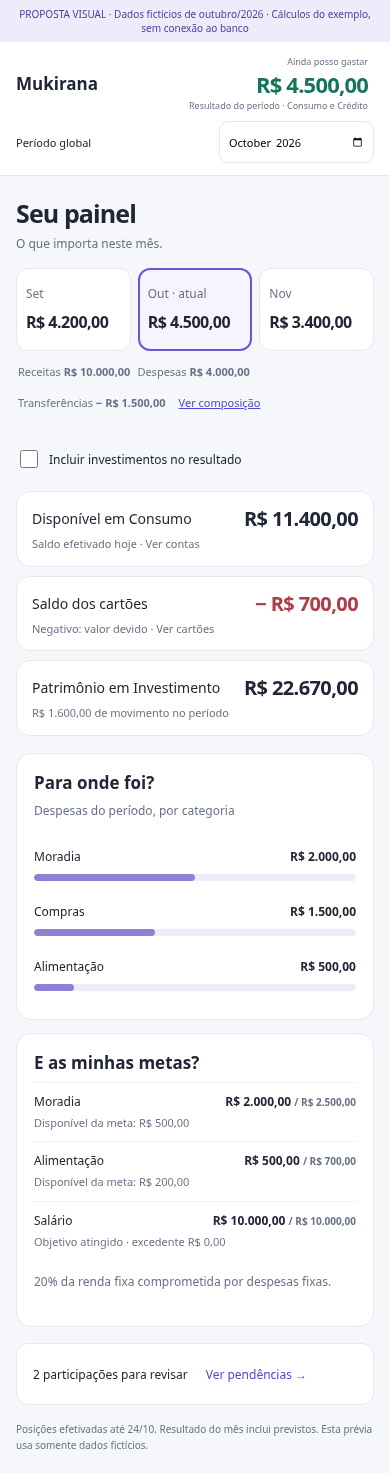
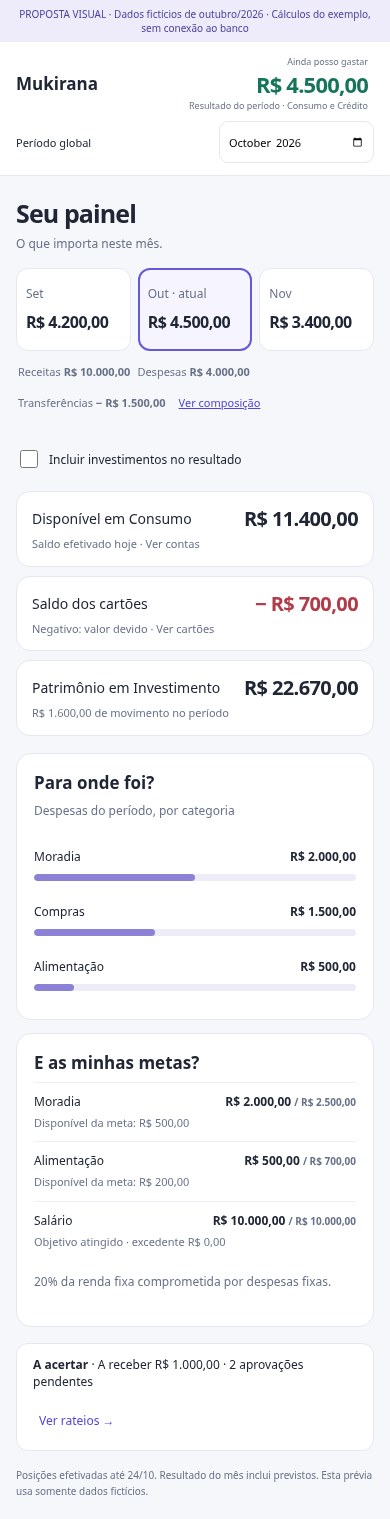
Propor rateios e acertos integrados ao Dashboard com resultado financeiro unico

diff --git a/docs/prototipos/painel.html b/docs/prototipos/painel.html
@@ -55,7 +55,7 @@ for(const [month,income,rent,food,transport,card,contribution,returns,payment] o
 const legs=entries.flatMap(e=>e.type==='transfer'?[{...e,key:e.id+'out',entryId:e.id,signedCents:String(-e.amount)},{...e,key:e.id+'in',entryId:e.id,account:e.destination,signedCents:String(e.amount)}]:[{...e,key:e.id,entryId:e.id,signedCents:String(e.type==='expense'?-e.amount:e.amount)}]);
 let selected='2026-10',include=false,lastFocus=null;const $=id=>document.getElementById(id),all=s=>[...document.querySelectorAll(s)],esc=s=>String(s??'').replace(/[&<>"']/g,c=>({'&':'&amp;','<':'&lt;','>':'&gt;','"':'&quot;',"'":'&#39;'}[c]));const ua=navigator.userAgent,tablet=/iPad|Tablet|Android(?!.*Mobile)/i.test(ua),phone=!tablet&&(/iPhone|Android.+Mobile/i.test(ua)||Math.min(innerWidth,innerHeight)<600);document.body.dataset.interface=phone?'phone':'desktop';$('mount').append($(phone?'phone':'desktop').content.cloneNode(true));
 function relevant(month){return legs.filter(e=>e.date.startsWith(month)&&(include||accounts[e.account].type!=='Investimento'));}function summary(month){return C.summarize(relevant(month));}function current(type){return legs.filter(e=>accounts[e.account].type===type&&e.date<=today).reduce((n,e)=>C.add(n,e.signedCents),'0');}function movement(){return legs.filter(e=>accounts[e.account].type==='Investimento'&&e.date.startsWith(selected)).reduce((n,e)=>C.add(n,e.signedCents),'0');}function m(value){return C.money(String(value));}
-function draw(){const s=summary(selected);$('result').textContent=m(s.resultCents);$('result').className=s.resultCents.startsWith('-')?'negative':'';$('scope').textContent='Resultado do período · '+(include?'Todas as contas':'Consumo e Crédito');all('.months').forEach(host=>host.innerHTML=['2026-09','2026-10','2026-11'].map((month,i)=>{const s=summary(month),name=['Setembro','Outubro','Novembro'][i];return `<button class="month" data-month="${month}" aria-pressed="${month===selected}"><span class="month-label">${phone?name.slice(0,3):name+' 2026'}${i===1?' · atual':''}</span><strong class="${s.resultCents.startsWith('-')?'negative':''}">${m(s.resultCents)}</strong>${phone?'':`<span>Entrou ${m(s.incomeCents)} · Saiu ${m(s.expenseCents)}</span>`}</button>`;}).join(''));
+function draw(){const s=summary(selected);const sharedExpense=entries.find(e=>e.id==='2026-10card'),receivable=String(Math.floor(sharedExpense.amount/3)*2);all('.pending>span').forEach(n=>n.innerHTML='<strong>A acertar</strong> · A receber '+m(receivable)+' · 2 aprovações pendentes');all('.pending>button').forEach(n=>n.textContent='Ver rateios →');$('result').textContent=m(s.resultCents);$('result').className=s.resultCents.startsWith('-')?'negative':'';$('scope').textContent='Resultado do período · '+(include?'Todas as contas':'Consumo e Crédito');all('.months').forEach(host=>host.innerHTML=['2026-09','2026-10','2026-11'].map((month,i)=>{const s=summary(month),name=['Setembro','Outubro','Novembro'][i];return `<button class="month" data-month="${month}" aria-pressed="${month===selected}"><span class="month-label">${phone?name.slice(0,3):name+' 2026'}${i===1?' · atual':''}</span><strong class="${s.resultCents.startsWith('-')?'negative':''}">${m(s.resultCents)}</strong>${phone?'':`<span>Entrou ${m(s.incomeCents)} · Saiu ${m(s.expenseCents)}</span>`}</button>`;}).join(''));
  all('.composition').forEach(host=>host.innerHTML=`<span>Receitas <strong>${m(s.incomeCents)}</strong></span><span>Despesas <strong>${m(s.expenseCents)}</strong></span><span>Transferências <strong>${m(s.transferCents)}</strong></span><button data-info="balance">Ver composição</button>`);
  all('.positions').forEach(host=>host.innerHTML=[['Disponível em Consumo',current('Consumo'),'Saldo efetivado hoje · Ver contas','cash'],['Saldo dos cartões',current('Cartão de Crédito'),'Negativo: valor devido · Ver cartões','credit'],['Patrimônio em Investimento',current('Investimento'),m(movement())+' de movimento no período','invest']].map(([label,value,caption,id])=>`<button class="position" data-info="${id}" style="text-align:left"><span>${label}</span><strong class="${String(value).startsWith('-')?'negative':''}">${m(value)}</strong><small>${caption}</small></button>`).join(''));
  const expenses=relevant(selected).filter(e=>e.type==='expense'),cats={};expenses.forEach(e=>cats[e.category]=(cats[e.category]||0)+e.amount);const sorted=Object.entries(cats).sort((a,b)=>b[1]-a[1]),shown=sorted.slice(0,3);if(sorted.length>3)shown.push(['Outras',sorted.slice(3).reduce((n,x)=>n+x[1],0)]);const total=expenses.reduce((n,e)=>n+e.amount,0);
@@ -64,6 +64,6 @@ function draw(){const s=summary(selected);$('result').textContent=m(s.resultCent
  const fi=relevant(selected).filter(e=>e.type==='income'&&e.classification==='fixed').reduce((n,e)=>n+e.amount,0),fe=relevant(selected).filter(e=>e.type==='expense'&&e.classification==='fixed').reduce((n,e)=>n+e.amount,0);all('.fixed').forEach(n=>n.textContent=fi?(fe/fi*100).toLocaleString('pt-BR',{maximumFractionDigits:1})+'% da renda fixa comprometida por despesas fixas.':'Sem renda fixa registrada.');
 }
 function dialog(title,content){lastFocus=document.activeElement;$('dialog-title').textContent=title;$('dialog-content').innerHTML=content;$('dialog-wrap').hidden=false;$('dialog-close').focus();}function close(){$('dialog-wrap').hidden=true;lastFocus?.focus();}
-function info(kind){const s=summary(selected),content=kind==='balance'?`<p>Receitas − despesas + transferências recebidas − transferências enviadas.</p>${[['Receitas',s.incomeCents],['Despesas',C.negate(s.expenseCents)],['Entradas de transferência',s.transferInCents],['Saídas de transferência',C.negate(s.transferOutCents)],['Resultado',s.resultCents]].map(([n,v])=>`<p class="row"><span>${n}</span><strong>${m(v)}</strong></p>`).join('')}<p>O pagamento da fatura não vira nova despesa. O aporte reduz o operacional quando Investimento está fora do recorte.</p>`:kind==='cash'?'<p>Acumulado de movimentos efetivados nas contas de Consumo até hoje. É diferente do resultado restrito ao mês.</p>':kind==='credit'?'<p>Compras reduzem o saldo de Crédito. Pagamentos o aumentam e reduzem Consumo, sem criar nova despesa. O limite do cartão não é dinheiro disponível.</p>':kind==='invest'?'<p>Patrimônio: saldo acumulado efetivado das contas de Investimento. Movimento do período: aportes − resgates + rendimentos e demais registros. Uma transferência entre investimentos se anula.</p>':'<p>Na implementação, abre a lista de aprovações autorizadas. Esta prévia não registra decisões.</p>';dialog(kind==='balance'?'Composição do resultado':kind==='invest'?'Investimentos':kind==='credit'?'Crédito':kind==='cash'?'Disponível hoje':'Pendências',content);}
+function info(kind){const s=summary(selected),content=kind==='balance'?`<p>Receitas − despesas + transferências recebidas − transferências enviadas.</p>${[['Receitas',s.incomeCents],['Despesas',C.negate(s.expenseCents)],['Entradas de transferência',s.transferInCents],['Saídas de transferência',C.negate(s.transferOutCents)],['Resultado',s.resultCents]].map(([n,v])=>`<p class="row"><span>${n}</span><strong>${m(v)}</strong></p>`).join('')}<p>O pagamento da fatura não vira nova despesa. O aporte reduz o operacional quando Investimento está fora do recorte.</p>`:kind==='cash'?'<p>Acumulado de movimentos efetivados nas contas de Consumo até hoje. É diferente do resultado restrito ao mês.</p>':kind==='credit'?'<p>Compras reduzem o saldo de Crédito. Pagamentos o aumentam e reduzem Consumo, sem criar nova despesa. O limite do cartão não é dinheiro disponível.</p>':kind==='invest'?'<p>Patrimônio: saldo acumulado efetivado das contas de Investimento. Movimento do período: aportes − resgates + rendimentos e demais registros. Uma transferência entre investimentos se anula.</p>':'<p>Exemplo: a compra de R$ 1.500 no cartão, em outubro, foi dividida em três partes de R$ 500. Você pagou o total e tem R$ 1.000 a receber das outras duas pessoas.</p><p>Esses R$ 1.000 não aumentam Ainda posso gastar antes dos acertos. Ao confirmar recebimentos, entram como transferências, sem nova receita ou despesa. As aprovações deste exemplo são dos outros participantes.</p><p>A dívida é acumulada e não desaparece ao mudar o período. No sistema conectado, o detalhe mostrará as pessoas, as suas pendências e o extrato autorizado; esta prévia não registra decisões.</p>';dialog(kind==='balance'?'Composição do resultado':kind==='invest'?'Investimentos':kind==='credit'?'Crédito':kind==='cash'?'Disponível hoje':'Pendências',content);}
 $('month').addEventListener('change',e=>{if(!/^\d{4}-(0[1-9]|1[0-2])$/.test(e.target.value))return;selected=e.target.value;draw();});all('.include-invest').forEach(el=>el.addEventListener('change',()=>{include=el.checked;draw();}));document.addEventListener('click',e=>{const b=e.target.closest('button');if(!b)return;if(b.dataset.month){selected=b.dataset.month;$('month').value=selected;draw();}if(b.dataset.info)info(b.dataset.info);if(b.dataset.category)dialog(b.dataset.category,'<p>Na implementação, abre Lançamentos com o mesmo período e a categoria selecionada. Nenhum filtro sem registros será oferecido.</p>');});$('dialog-close').onclick=close;$('dialog-wrap').onclick=e=>{if(e.target===$('dialog-wrap'))close();};document.addEventListener('keydown',e=>{if($('dialog-wrap').hidden)return;if(e.key==='Escape')close();if(e.key==='Tab'){e.preventDefault();$('dialog-close').focus();}});draw();window.demoSummary=()=>summary(selected);
 </script></body></html>

diff --git a/docs/proposta-rateios.md b/docs/proposta-rateios.md
@@ -1,0 +1,203 @@
+# Proposta de implementação de Rateios nesta rodada
+
+Revisão em 25/10/2026 do documento v0.1 (RAT-01 a RAT-13, APR-01 a APR-05,
+ACE-01 a ACE-09, CAT-09 e regras de geração). Comparação com o código vigente,
+a avaliação v40 e a estrutura real do Supabase `wcczkultokrypdfimbsh`.
+Esta entrega é uma proposta; não aplica migrações nem altera os registros financeiros.
+
+## Decisão financeira confirmada
+
+O usuário confirmou nesta revisão: se paga R$ 300 divididos igualmente entre três
+pessoas, o resultado/Ainda posso gastar considera os **R$ 300 pagos**. Os **R$ 200
+a receber** ficam em **A acertar**, separados. A participação de R$ 100 permanece
+visível no detalhe, sem gerar outro lançamento na conta dos participantes.
+
+| Momento, considerando apenas esse exemplo | Despesa do pagador | Transferências recebidas | Resultado | A receber |
+| --- | ---: | ---: | ---: | ---: |
+| Após o pagamento original | R$ 300 | R$ 0 | −R$ 300 | R$ 200 |
+| Após um acerto de R$ 100 confirmado | R$ 300 | R$ 100 | −R$ 200 | R$ 100 |
+| Após os dois acertos confirmados | R$ 300 | R$ 200 | −R$ 100 | R$ 0 |
+
+Para o outro participante, a obrigação de R$ 100 não altera sua conta até pagar.
+Ao pagar, haverá uma transferência de saída, sem uma segunda despesa do original.
+A fórmula única continua Receitas − Despesas + transferências recebidas − enviadas.
+Sem alternância Minha participação/Fluxo de caixa. Direitos a receber não são
+tratados como dinheiro disponível, e dívidas não viram movimentações bancárias
+antes do registro de seu pagamento.
+
+Essa decisão substitui a aplicação de RAT-03/RAT-12 que anteciparia a participação
+individual **no resultado financeiro principal**. Categoria individual e informações
+de participação continuam necessárias para organizar/consultar rateios, sem somar
+provisões aos KPIs financeiros, às despesas efetivamente registradas ou ao patrimônio.
+
+## O que já existe e o que falta
+
+| Aspecto | Base atual | Complemento proposto |
+| --- | --- | --- |
+| Divisão | Igual, por valor ou percentual; autor incluído; centavos e total validados | Preservar ajustes proporcionais dos demais, conferir totais e positivos também em cada parcela |
+| Modalidades | Rateio combinado com único, parcelado e recorrente finito na avaliação | Concluir a experiência de conjunto e os testes de aprovações/alterações parciais |
+| Aprovação | Solicitações com versão, aprovação/recusa com motivo e exclusão aguardando decisão | Detalhe suficiente para decidir, repetição segura e estados de aprovação separados de pagamento |
+| Categoria própria | Categoria escolhida gravada na decisão | Persistir na participação e usar nas consultas pessoais; hoje nova solicitação pode apagar essa informação |
+| Consulta do destinatário | Pode receber a solicitação sem ter acesso ao lançamento pela origem | Mostrar sua participação com DTO autorizado, sem abrir a conta/fatura original |
+| Liquidação | Há tabela de acertos e resumo legado de compensações | Implementar o fluxo bilateral contínuo com pagamento, confirmação, recusa, parciais e limite concorrente |
+| Dashboard | Tem resumo legado; proposta nova ainda é demonstrativa | Acrescentar A acertar, sem alterar a fórmula financeira confirmada |
+
+Consulta somente de leitura encontrou **942 participações em 471 lançamentos**.
+Em todos esses lançamentos a soma fecha o valor original e há uma parte do autor.
+Existem **três acertos**: um efetivado com duas pontas registradas e dois aguardando
+o credor, sem entrada de recebimento. Há **258 referências de participações nesses
+acertos, todas resolvidas**. As novas tabelas de solicitações/decisões estão vazias:
+não há evidência de aprovação v3 para atribuir automaticamente aos registros antigos.
+
+## Experiência proposta
+
+**Criar/dividir:** continua dentro de Lançamentos, como característica opcional de
+receita/despesa. Transferências, saldo inicial e pagamento de fatura não recebem
+rateio. Ao ativar Dividir, selecionar pessoas autorizadas, começar pela divisão
+igual e permitir editar valores ou percentuais. Não exigir compartilhar uma conta
+para ratear; não criar compartilhamentos bancários por trás do formulário.
+
+A primeira lista aproveita os vínculos autorizados existentes. Quando precisar de
+outro vínculo, usar convite privado com aceite, sem diretório público nem busca que
+exponha cadastros. Não ampliar esta rodada para um cadastro completo de grupos.
+Aprovações e convites ficam na aplicação; envio externo não é requisito desta proposta.
+
+**Divisão inteligente:** manter a parte editada e redistribuir o restante
+proporcionalmente entre as demais, respeitando suas proporções anteriores; quando
+não houver proporções, dividir igualmente. Valores monetários em centavos são a
+referência final. Resíduo da divisão igual fica com o autor; em redistribuição,
+com o autor se sua parte não estiver fixada pela edição, ou com o primeiro dos
+restantes em ordem estável. Mostrar o ajuste e impedir partes zeradas ou soma
+incompatível. Valores/percentuais editados nunca podem criar sobras escondidas.
+
+**Revisar:** cada pessoa vê descrição, natureza, datas, total, sua parcela, responsável
+financeiro, participantes autorizados e alterações a aprovar. Escolhe sua própria
+categoria/subcategoria; recusa exige motivo. Não exigir categoria para aprovar uma
+exclusão ou um recebimento de acerto. Sem categoria, usar a classificação reservada
+Aguardando Categorização, distinta de Aguardando aprovação. Não disponibilizar essa
+classificação para seleção/edição manual e só exibi-la quando houver participação
+vinculada, conforme a regra já definida para categorias do sistema.
+
+**Conjuntos:** uma decisão e uma categoria por pessoa para o conjunto, com aplicação
+às suas ocorrências. O detalhe mostra datas e valores afetados, inclusive fora do
+período global, e explica o alcance. Uma alteração financeira em qualquer ocorrência
+substitui o token e exige nova aprovação dos envolvidos, inclusive quem já aprovou.
+Excluir uma ocorrência/alcance solicita aprovação; nada é removido antes da aprovação
+exigida. Recusa não apaga o original nem desfaz automaticamente movimentações reais.
+Recategorização privada não deve expor a categoria nem gerar aprovação dos demais.
+
+**Estados independentes:** aprovação pendente/aprovada/rejeitada, classificação
+pendente/escolhida e dívida em aberto/parcialmente liquidada/zerada. Aprovado não
+significa pago; rejeitado não significa lançamento cancelado.
+
+**Telas maiores:** edição no painel compacto de Lançamentos, com tabela de pessoas,
+valores e percentuais; revisão e extrato em painel lateral. **Smartphone:** formulário
+próprio em tela inteira, participantes em cartões e decisões/acertos em folha inferior.
+Retomar rascunho preserva a divisão; rotação não apaga campos. Nenhum novo modo de cálculo.
+
+## A acertar e liquidação
+
+No Dashboard, uma linha compacta: **A receber · A pagar · Aprovações pendentes**.
+Só aparece quando houver algo relevante. Ao abrir, mostrar saldo por pessoa e o
+extrato dos rateios/acertos que o compõem. Compensar apenas dentro do mesmo par:
+não usar um crédito com uma pessoa para apagar uma dívida com outra.
+
+Despesas pagas por A geram obrigações dos demais para A. Receitas recebidas por A
+que pertencem aos demais geram obrigação de A para eles: a direção se inverte.
+A soma pode inverter quem deve a quem. Não gerar juros, empréstimos ou produtos
+financeiros que não constam dos requisitos.
+
+A sugestão para pagar é a dívida líquida acumulada até o mês corrente. A antecipação
+pode alcançar obrigações futuras **já registradas**, até o saldo total disponível.
+Recorrências virtuais ainda não geradas não autorizam pagamentos. O filtro mensal
+do Dashboard não redefine o saldo bilateral: o bloco informa que é acumulado, e o
+detalhe distingue vencido/atual, futuro registrado e em confirmação.
+
+```mermaid
+flowchart LR
+  A[Devedor registra pagamento] --> B[Saída na própria conta e reserva na dívida]
+  B --> C[Credor revisa]
+  C -->|Aprova e escolhe conta| D[Entrada registrada e acerto efetivado]
+  C -->|Recusa com motivo| E[Dívida restaurada; saída permanece para correção]
+```
+
+O devedor informa valor e a própria conta; não escolhe nem descobre a conta do credor.
+A saída e a reserva provisória são atômicas. O credor escolhe sua conta e confirma;
+a entrada nasce nessa confirmação, sem novo lançamento de receita/despesa comum.
+Repetir um pedido após perda de resposta não duplica saída, entrada ou reserva.
+Pagamentos simultâneos não podem ultrapassar a dívida, considerando os já em confirmação.
+
+Preservar compatibilidade com pagamento já existente e com a opção legada vinculada
+a pagamento de fatura. Nesses casos, reconhecer o registro financeiro existente:
+não criar outra saída ou outra entrada. O benefício de uma fatura efetivamente paga
+não é estornado por recusa do acerto; a dívida bilateral é que volta a ficar aberta.
+Vínculo a movimento existente exige propriedade, valor compatível e ausência de
+outro vínculo de liquidação. Movimentos ficam associados a uma única operação.
+
+Não apagar pagamentos históricos para editar um rateio. Conservar as proteções
+atuais de liquidações e implementar uma correção explícita quando houver diferença
+a regularizar, com nova aprovação, em vez de remover e recriar registros vinculados.
+
+## Reaproveitamento técnico e mudanças mínimas
+
+- **rateios:** manter entidade/IDs e valores; acrescentar categoria individual e
+  controle de versão necessários. A categoria precisa sobreviver à troca de token.
+  Manter como estado interno reservado a classificação ausente, sem criar finanças.
+- **solicitacoes/decisoes:** aproveitar a base e generalizar por domínio/ação:
+  alteração/exclusão de rateio, acerto e convite. Verificar sessão, participação,
+  token atual e versão. Cada domínio aplica seus efeitos; decidir um convite não
+  pode executar uma exclusão financeira. Não usar a decisão como único cadastro
+  permanente de categoria.
+- **acertos_rateios:** conservar os três acertos e seus vínculos; completar versão,
+  motivo de recusa, operação idempotente e estado Rejeitado. O esquema atual aceita
+  somente Aguardando_Credor/Efetivado/Cancelado, portanto precisa de migração aditiva, harmonizando também as restrições de estado.
+- **Lançamentos/Contas:** reconhecer as pontas de acerto como transferências
+  especiais na projeção financeira, inclusive nos registros legados; não criar
+  destinos fictícios nem copiar movimentos entre contas privadas. Cada pessoa só
+  acessa a sua ponta e os detalhes do acerto a que tem direito.
+- **Consultas:** saldo derivado de obrigações e acertos, sem total manual paralelo.
+  Não descontar ao mesmo tempo o pagamento e uma marca de rateio Acertado.
+
+Duas correções precisam vir antes da interface:
+
+1. Hoje o gravador novo substitui participações com DELETE/INSERT, mas os acertos
+   guardam IDs de participações. Preservar identidades e proteger/normalizar esses
+   vínculos antes de permitir alterações no histórico; cancelar logicamente o que
+   precisar sair da versão vigente sem perder referências financeiras.
+2. Na produção, a responsabilidade é inferida do dono da conta/titular do cartão;
+   no gravador novo, `id_usuario_credor` é preenchido com quem está digitando.
+   Separar autoria do registro e responsável financeiro, especialmente nos
+   adicionais. O titular e o adicional não podem virar credores por uma suposição
+   baseada apenas no login. A direção da obrigação também depende de ser receita
+   ou despesa, não apenas do nome de uma coluna legada.
+
+Privacidade: DTO de participação permite consultar o rateio sem liberar a origem.
+Categorias privadas só são retornadas ao seu dono. Não dar acesso a detalhes de
+rateio por simples presença no mesmo grupo, projeto ou conta; preservar as permissões
+financeiras do titular de cartão já homologadas, com os detalhes estritamente
+necessários. Elegibilidade para convidar não equivale a direito de consultar finanças.
+
+## Migração, sequência e aceite
+
+1. Conciliar a base, conservar os 942 IDs e os três acertos, e introduzir os metadados
+   sem mudar saldos. Registros antigos ficam identificados como legado sem evidência
+   de aprovação; não marcar todos como aprovados nem disparar convites retroativos.
+2. Completar rateio no lançamento, detalhes para o destinatário, categoria individual,
+   estados e nova aprovação por conjunto. Manter menus de avaliação e as duas UIs.
+3. Completar acertos bilaterais, reservas, confirmação/recusa e proteção concorrente,
+   preservando as pontas financeiras legadas. Corrigir o resumo antigo que só soma
+   participações do período e não lê a liquidação efetiva dos acertos.
+4. Integrar o Dashboard a esses mesmos serviços e às regras confirmadas, com a linha
+   A acertar. Publicar para avaliação, commit/push e implantação após os testes;
+   promover as telas somente com homologação.
+
+Aceite: despesa e receita rateadas; partes positivas e soma exata; centavos; parcelas
+e recorrências; reaprovação de todos após alteração; token antigo sem efeito;
+exclusão recusada preserva original; categorias distintas entre pessoas; participante
+sem acesso à conta original; adicionais com responsável financeiro correto; acertos
+parciais, futuros registrados e concorrentes; recusa com saída preservada; fatura ou
+movimento já existente sem duplicidade; preservação dos vínculos dos três acertos.
+No exemplo de R$ 300, os resultados devem ser exatamente os da tabela inicial.
+
+Escopo desta análise: documento, código e catálogo/agregados reais do banco, somente
+leitura. Nenhuma aprovação, pagamento, mensagem externa ou migração foi executada.

diff --git a/docs/pendencias-requisitos.md b/docs/pendencias-requisitos.md
@@ -22,19 +22,27 @@ Atualizado em 25/10/2026. Supabase `wcczkultokrypdfimbsh`.
   preparada para computador/tablet e smartphone, com fórmula conciliada e exemplos
   fictícios identificados. A prévia não altera o Dashboard em produção.
 
+- Rateios incluídos na rodada com o Dashboard. Revisados documento, código e banco:
+  942 participações/471 lançamentos e 3 acertos preservados. A avaliação tem base de
+  divisão/aprovações, mas o módulo completo ainda é parcial. Ver [proposta de Rateios](proposta-rateios.md).
+- Regra confirmada: gasto de R$ 300 rateado continua R$ 300 no saldo financeiro;
+  R$ 200 a receber aparecem separadamente em A acertar até os pagamentos.
+
 ## Pendências vigentes
 
 1. Homologar Lançamentos conectado em computador/tablet e smartphone; depois
    promover ao acesso principal e retirar o menu provisório.
 2. Homologar Contas (tipos), incluindo a classificação das contas antigas de
    investimento; depois promover a atualização ao acesso principal.
-3. Revisar a proposta e implementar o novo Dashboard com Consumo/Crédito separados
-   do patrimônio em Investimento. O painel principal ainda usa a base anterior;
-   completar a integração de metas de receitas/despesas, classificação fixa/variável,
-   acertos/estornos e detalhamento sem duplicidade, conforme a proposta.
-4. Escolher e remodelar as demais telas, incluindo Faturas/pagamentos em rodada
-   própria. Compatibilidade financeira não equivale à remodelagem dessas telas.
-5. Ao concluir a remodelagem de todas as telas, revisar a paleta global.
+3. Completar Rateios em Lançamentos: categoria individual persistente, visão
+   autorizada do participante, divisão/alcances, reaprovações e proteção dos IDs
+   vinculados a acertos; distinguir autoria e responsável financeiro em adicionais.
+4. Completar acertos bilaterais: parciais, confirmação/recusa, limites concorrentes,
+   antecipações registradas e projeção como transferência, preservando os legados.
+5. Avaliar e implementar o Dashboard com A acertar e Consumo/Crédito separados
+   do patrimônio em Investimento; integrar metas, classificações e estornos sem duplicidade.
+6. Remodelar as demais telas, incluindo Faturas/pagamentos em rodada própria.
+7. Revisar a paleta global depois da remodelagem de todas as telas.
 
 O backlog anterior ao reinício permanece arquivado. Os demais módulos existentes
 na versão 1 não são considerados ausentes sem uma revisão de seus requisitos.

diff --git a/docs/proposta-dashboard.md b/docs/proposta-dashboard.md
@@ -27,8 +27,8 @@ o Dashboard conectado ainda não foi substituído.
    em Investimento. Cada número leva às contas que o compõem. Investimento traz
    também o movimento líquido dentro do período; sua projeção fica no detalhe.
 4. **Dois blocos de análise:** Para onde foi, com barras horizontais por categoria,
-   e Metas, mostrando primeiro excessos e objetivos não atingidos. Uma linha de
-   pendências só aparece quando existe algo que exige ação, com acesso direto.
+   e Metas, mostrando primeiro excessos e objetivos não atingidos. Uma linha compacta de **A acertar** mostra a receber, a pagar e aprovações
+   pendentes quando houver algo relevante, com acesso direto ao extrato por pessoa.
 
 Projetos, listas completas de contas, todas as faturas e tabelas de rateio ficam
 nos respectivos módulos, acessíveis pelo detalhe. Não ocupar a abertura com oito
@@ -141,3 +141,14 @@ continua para a rodada final.
 A navegação mensal da prévia é demonstrativa. Na implementação conectada será
 reutilizado o período global existente, com mês inicial/final, preferência explícita
 e intervalos relativos. A prévia não grava preferências nem movimentações.
+
+## Rateios incluídos nesta rodada
+
+A [proposta de Rateios](proposta-rateios.md) detalha a implementação integrada.
+Decisão confirmada: despesa de R$ 300 paga e dividida por três continua como R$ 300
+no resultado financeiro; os R$ 200 a receber aparecem em A acertar. Quando recebidos,
+entram como transferências e o efeito líquido desse exemplo passa a −R$ 100, sem
+criar receita ou despesa novamente. A participação individual fica no detalhe.
+A acertar é bilateral e acumulado; o período global não apaga dívidas anteriores.
+Sua integração deve concluir leitura autorizada, categoria individual, aprovações
+e liquidação dos acertos antes da entrega do Dashboard conectado.

diff --git a/AGENTS.md b/AGENTS.md
@@ -27,3 +27,6 @@
 - Depois desta entrega, o usuário pediu revisão e proposta de Dashboard enxuto: Consumo+Crédito no operacional, Investimento no patrimônio. Preservar fórmula única, período global, privacidade e interfaces próprias; não substituir o painel antes da avaliação da proposta.
 
 - Avaliação vigente: versão 40, 75 arquivos idênticos ao commit 9eb26ae; produção permanece 36. Ver docs/contas-tipos-publicacao.json. A proposta do Dashboard está em docs/proposta-dashboard.md e docs/prototipos/painel.html (dados fictícios, sem backend); ainda não foi implementada como painel conectado.
+
+- Rateios incluídos pelo usuário na rodada de Dashboard. Proposta em docs/proposta-rateios.md; ainda parcial na avaliação v40. Decisão confirmada: pagando R$ 300 divididos por três, Ainda posso gastar considera R$ 300; R$ 200 a receber ficam separados em A acertar. Não antecipar direitos/obrigações no saldo financeiro nem voltar aos modos participação/fluxo.
+- Antes de completar rateios, preservar IDs referenciados pelos acertos e distinguir autoria de responsabilidade financeira em cartões adicionais. Categoria individual deve persistir fora das decisões temporárias; não presumir aprovação dos legados. A análise desta rodada é somente leitura do banco.

diff --git a/docs/lancamentos-entrega.md b/docs/lancamentos-entrega.md
@@ -22,8 +22,10 @@ Rascunhos são isolados por usuário. Não há salvamento automático.
 - Edição individual/do ponto em diante/do conjunto; exclusão individual, próxima,
   anterior ou integral. Geração e rateios gravados numa única transação.
 - Histórico pessoal e favoritos sem reutilizar valor; cadastro contextual real.
-- Aprovações individuais de rateios, categoria própria, motivo da recusa e nova
-  solicitação após mudanças. Exclusão compartilhada aguarda os participantes.
+- Base de aprovações individuais de rateios, escolha de categoria na decisão,
+  motivo da recusa e nova solicitação após mudanças. Exclusão compartilhada aguarda
+  os participantes. A persistência da categoria por participação, a leitura do
+  destinatário e a liquidação completa são parciais; ver [proposta de Rateios](proposta-rateios.md).
 - Renovação como novo conjunto com vínculo ao anterior, sem alterar o original.
 - Compras mantêm a competência persistida. Pagamentos de fatura aparecem como
   transferência, sem nova despesa. Acesso adicional continua limitado.

diff --git a/README.md b/README.md
@@ -81,3 +81,6 @@ homologada permanece até a aprovação da atualização.
 [Proposta do novo Painel geral](docs/proposta-dashboard.md), com os contratos
 financeiros desta base e prévias próprias para computador/tablet e smartphone.
 O Dashboard principal será substituído após a avaliação e implementação conectada.
+
+[Proposta de Rateios e acertos](docs/proposta-rateios.md), incluídos na rodada do
+Dashboard, com levantamento do que já existe e da integração ainda pendente.
